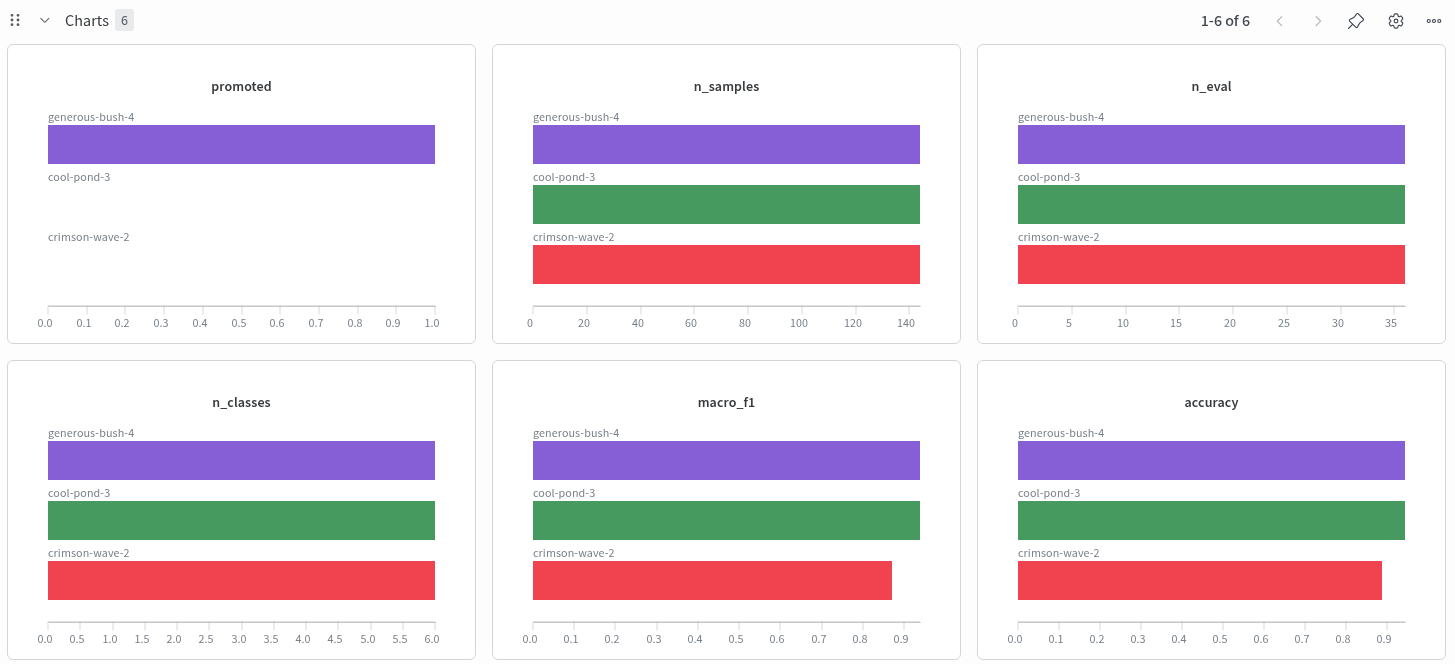
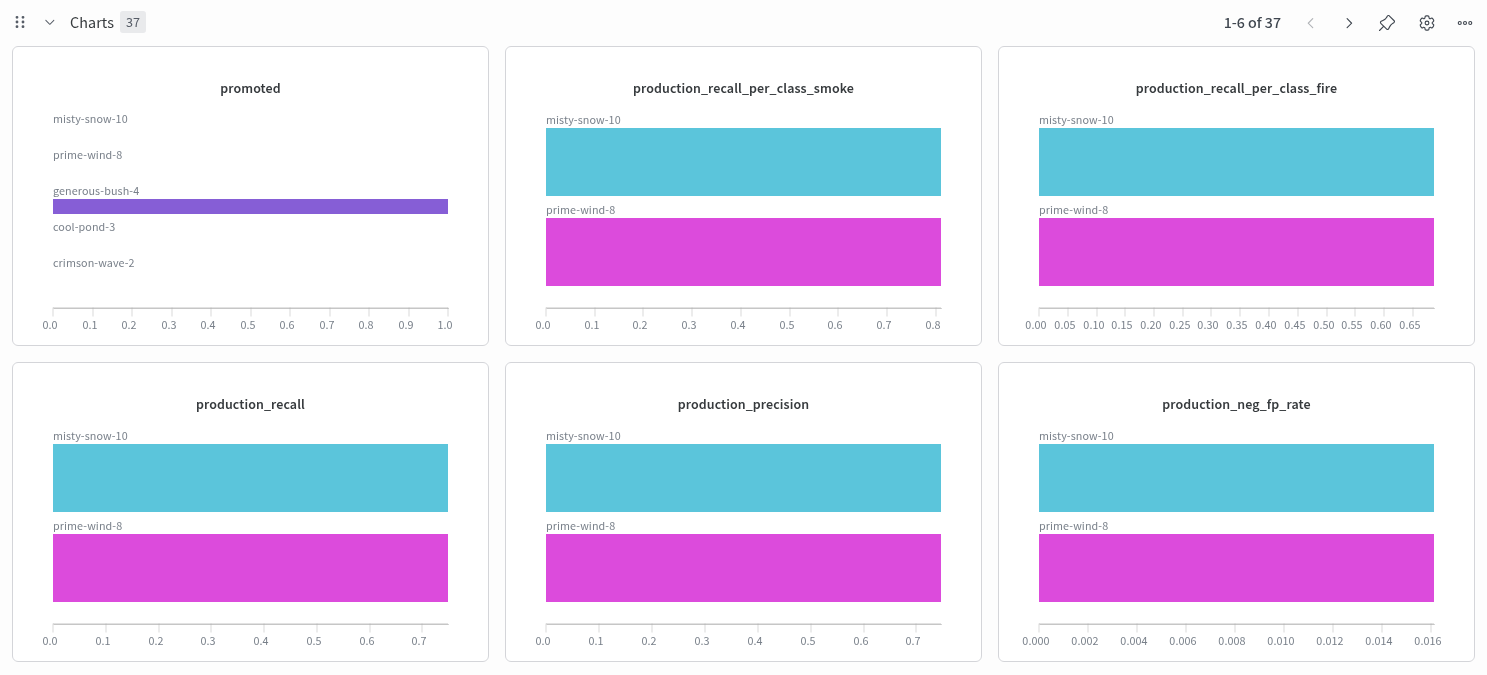
docs: organize project documentation

diff --git a/README.md b/README.md
@@ -146,12 +146,14 @@ cv-fp-mining-lab/
 │   ├── processed/            # embeddings, clusters, datasets
 │   └── labelstudio_exports/  # sample Label Studio export JSON
 ├── docs/
+│   ├── README.md
 │   ├── active_learning.md
 │   ├── architecture.md
 │   ├── demo_walkthrough.md
 │   ├── fp_taxonomy.md
 │   ├── hybrid_k8s_architecture.md
-│   └── label_studio_setup.md
+│   ├── label_studio_setup.md
+│   └── real_data.md
 ├── notebooks/
 │   └── 01_fp_clustering.ipynb
 ├── scripts/
@@ -193,7 +195,7 @@ tasks, with the synthetic FP image, model metadata (`event_id`, `camera_id`,
 `pred_class`), and the reviewer's verdict. Images are served over HTTP by the
 `fileserver` container so they render directly in the UI.
 
-![Label Studio review queue](docs/assets/labelling-all-tasks.png)
+![Label Studio review queue](docs/assets/ls-labelling.png)
 
 **Model lineage in self-hosted W&B.** Each review batch triggers a `retrain` run;
 the charts compare runs side by side — `macro_f1`/`accuracy` (model quality),
@@ -453,13 +455,36 @@ W&B is used as the lineage and analysis layer:
 - **Runs**: `mine-fp`, `build-hardneg`, `yolo-retrain`, `eval-gate`, plus synthetic retrain demos
 - **Registry**: local `LocalModelRegistry` now; W&B Registry or equivalent aliases in production
 
-## Suggested next steps
+## Future works
 
-- Add production event metadata from PostgreSQL or Kafka.
-- Replace D-Fire paths with production CCTV/object-storage paths.
-- Use DINOv2 embeddings as a stronger alternative to CLIP for FP crop grouping.
-- Add FiftyOne for visual error analysis.
-- Promote the script chain to Argo/Airflow/Kubernetes Jobs with the same inputs/outputs.
+The current real-data loop is functional: mine real FP crops, review them in Label
+Studio, build hard negatives, retrain YOLO, log lineage to W&B, and protect
+production with a promotion gate. The remaining work is quality hardening and
+production migration.
+
+- **Clean hard-negative curation.** Build filtered hard-negative datasets from
+  reviewer-confirmed `false_positive` rows only, excluding `uncertain`, true
+  events, low-quality crops, and broad `unknown` labels unless explicitly needed.
+- **Hard-negative sampling controls.** Add knobs for FP type allowlists, per-type
+  caps, empty-label ratio, and oversampling so retraining can reduce FP rate
+  without sacrificing fire/smoke recall.
+- **Full-frame review context.** Show the source frame with the predicted bbox
+  overlay alongside the crop, then rename or refine `bbox_valid` into a clearer
+  detection-issue field.
+- **W&B training curves.** Parse Ultralytics `results.csv` and upload epoch-level
+  loss/mAP curves plus `results.png`, so retrain runs are comparable without
+  opening local run folders.
+- **Real online loop.** Connect the Label Studio ML backend and webhook path to
+  the real YOLO detector, not only the synthetic sklearn smoke-test detector.
+- **Production data integration.** Replace D-Fire paths with CCTV/object-storage
+  paths and attach production metadata from PostgreSQL, Kafka, or the event store.
+- **Orchestration.** Promote the script chain to Argo Workflows, Airflow, or
+  Kubernetes Jobs using the same file contracts and W&B artifacts.
+- **Registry migration.** Keep `LocalModelRegistry` for local demos, but map
+  candidate/staging/production aliases to W&B Registry or an internal model
+  registry before production use.
+- **Error-analysis tooling.** Add FiftyOne or an equivalent visual QA layer for
+  inspecting false positives, false negatives, bbox errors, and per-camera drift.
 
 ## References to study
 

diff --git a/docs/README.md b/docs/README.md
@@ -1,0 +1,23 @@
+# Docs
+
+## Run the pipeline
+
+- Local synthetic demo: [`demo_walkthrough.md`](demo_walkthrough.md)
+- Real D-Fire/YOLO pipeline: [`real_data.md`](real_data.md)
+- Label Studio setup/import/export: [`label_studio_setup.md`](label_studio_setup.md)
+
+## Understand the system
+
+- Overall architecture: [`architecture.md`](architecture.md)
+- Active-learning loop design: [`active_learning.md`](active_learning.md)
+- Hybrid/Kubernetes production target: [`hybrid_k8s_architecture.md`](hybrid_k8s_architecture.md)
+
+## Label and review data
+
+- False-positive label taxonomy: [`fp_taxonomy.md`](fp_taxonomy.md)
+
+## Suggested reading paths
+
+- First-time local demo: [`demo_walkthrough.md`](demo_walkthrough.md) -> [`label_studio_setup.md`](label_studio_setup.md)
+- Real-data experiment: [`real_data.md`](real_data.md) -> [`fp_taxonomy.md`](fp_taxonomy.md) -> [`label_studio_setup.md`](label_studio_setup.md)
+- Production migration: [`architecture.md`](architecture.md) -> [`active_learning.md`](active_learning.md) -> [`hybrid_k8s_architecture.md`](hybrid_k8s_architecture.md)
